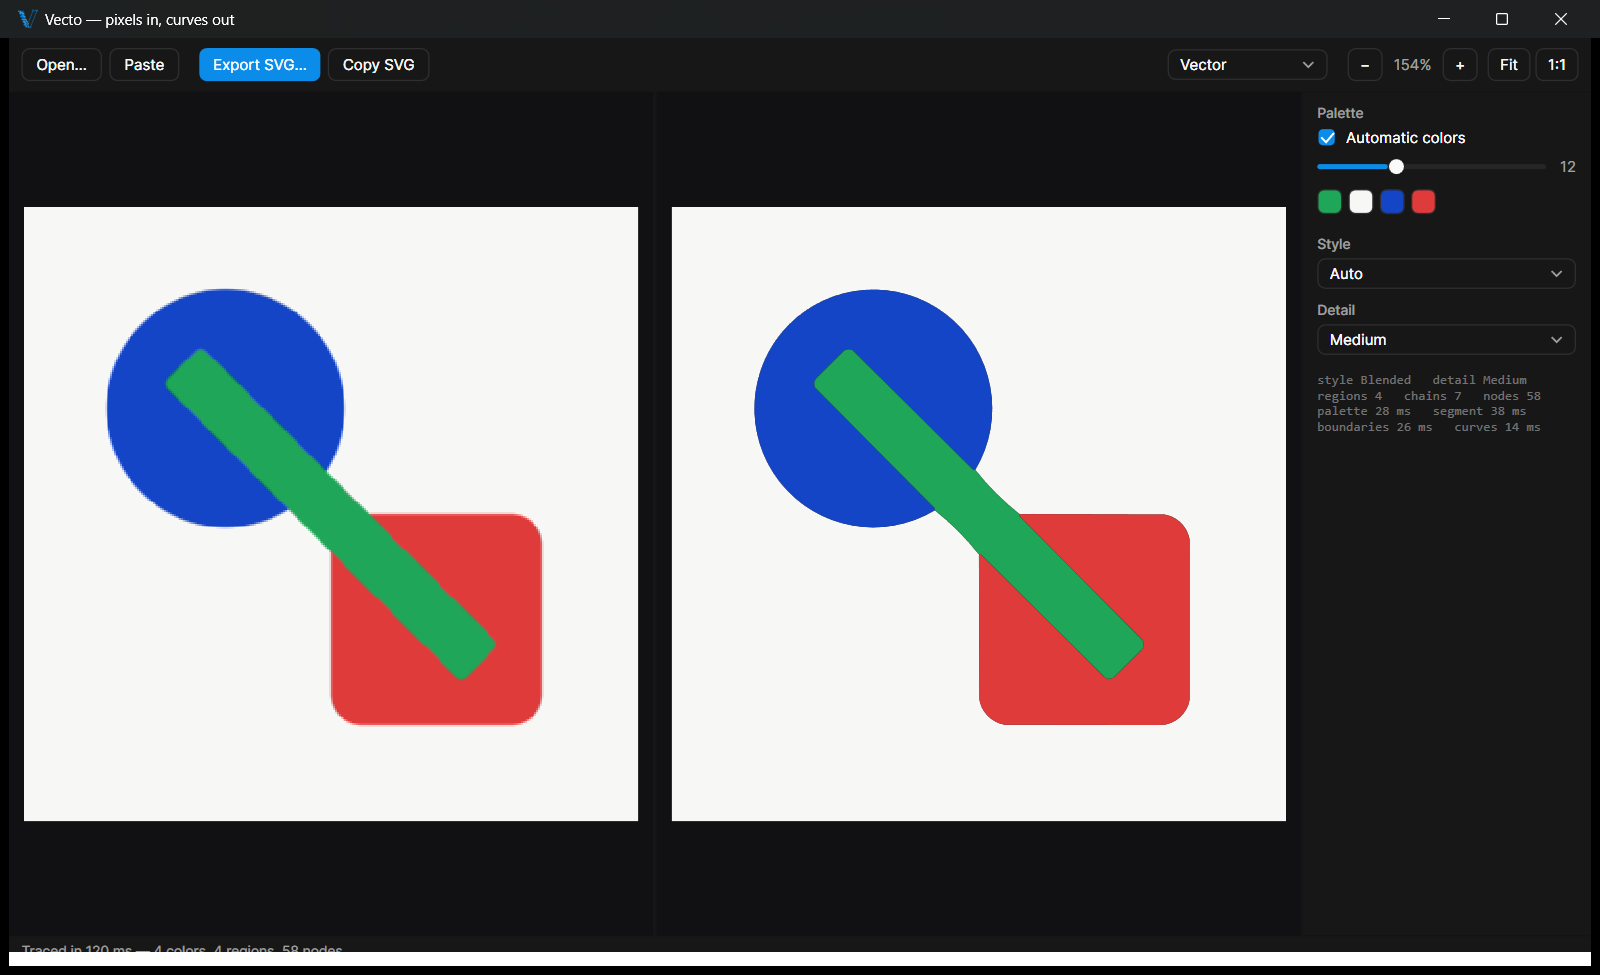
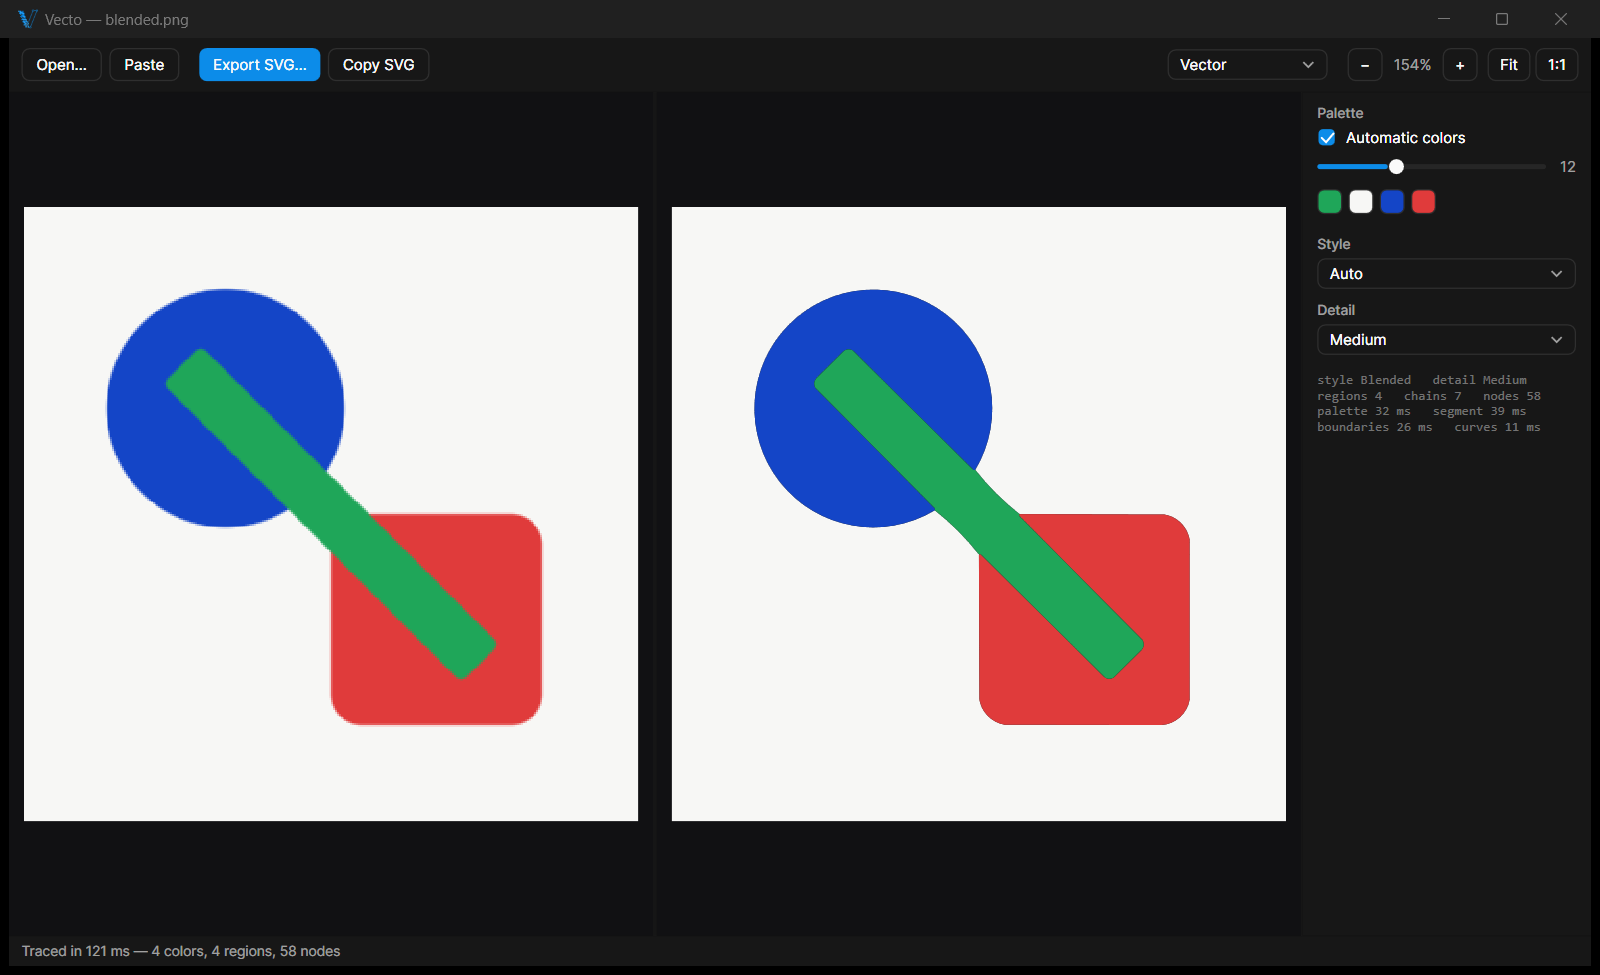
App: filename in window title, middle-click panning; fresh README screenshot; next steps in START_HERE

Changed region(s): [[0.0, 0.9538, 1.0, 1.0], [0.0312, 0.0, 0.125, 0.0308]]

diff --git a/Vecto.App/MainWindow.xaml b/Vecto.App/MainWindow.xaml
@@ -1,7 +1,7 @@
 <Window x:Class="Vecto.App.MainWindow"
         xmlns="http://schemas.microsoft.com/winfx/2006/xaml/presentation"
         xmlns:x="http://schemas.microsoft.com/winfx/2006/xaml"
-        Title="Vecto"
+        Title="{Binding WindowTitle}"
         Height="780" Width="1280"
         Background="{StaticResource VBg}"
         Foreground="{StaticResource VFg}"
@@ -46,7 +46,7 @@
             </Grid.ColumnDefinitions>
             <ScrollViewer x:Name="LeftScroll" Grid.Column="0" Background="{StaticResource VCanvas}"
                           HorizontalScrollBarVisibility="Auto" VerticalScrollBarVisibility="Auto"
-                          ScrollChanged="OnLeftScrollChanged" PreviewMouseWheel="OnPreviewWheel">
+                          ScrollChanged="OnLeftScrollChanged" PreviewMouseWheel="OnPreviewWheel" PreviewMouseDown="OnPanStart" PreviewMouseMove="OnPanMove" PreviewMouseUp="OnPanEnd">
                 <!-- explicit pixel size: PNG DPI metadata must not shrink the bitmap,
                      or the two panes fall out of scale -->
                 <Image Source="{Binding SourceBitmap}" Stretch="Fill"
@@ -61,7 +61,7 @@
             <GridSplitter Grid.Column="1" HorizontalAlignment="Stretch"/>
             <ScrollViewer x:Name="RightScroll" Grid.Column="2" Background="{StaticResource VCanvas}"
                           HorizontalScrollBarVisibility="Auto" VerticalScrollBarVisibility="Auto"
-                          ScrollChanged="OnRightScrollChanged" PreviewMouseWheel="OnPreviewWheel">
+                          ScrollChanged="OnRightScrollChanged" PreviewMouseWheel="OnPreviewWheel" PreviewMouseDown="OnPanStart" PreviewMouseMove="OnPanMove" PreviewMouseUp="OnPanEnd">
                 <Image Source="{Binding RightSource}" Stretch="None"
                        HorizontalAlignment="Center" VerticalAlignment="Center"
                        RenderOptions.BitmapScalingMode="NearestNeighbor">

diff --git a/Vecto.App/MainWindow.xaml.cs b/Vecto.App/MainWindow.xaml.cs
@@ -58,7 +58,37 @@ public partial class MainWindow : Window
             return;
         }
         var img = Clipboard.GetImage();
-        if (img != null) ViewModel.LoadBitmap(BitmapFrame.Create(img));
+        if (img != null) ViewModel.LoadPastedBitmap(BitmapFrame.Create(img));
+    }
+
+    System.Windows.Point _panStart;
+    double _panH, _panV;
+    ScrollViewer? _panning;
+
+    void OnPanStart(object sender, MouseButtonEventArgs e)
+    {
+        if (e.ChangedButton != MouseButton.Middle) return;
+        _panning = (ScrollViewer)sender;
+        _panStart = e.GetPosition(_panning);
+        _panH = _panning.HorizontalOffset;
+        _panV = _panning.VerticalOffset;
+        _panning.CaptureMouse();
+        e.Handled = true;
+    }
+
+    void OnPanMove(object sender, MouseEventArgs e)
+    {
+        if (_panning == null) return;
+        var p = e.GetPosition(_panning);
+        _panning.ScrollToHorizontalOffset(_panH - (p.X - _panStart.X));
+        _panning.ScrollToVerticalOffset(_panV - (p.Y - _panStart.Y));
+    }
+
+    void OnPanEnd(object sender, MouseButtonEventArgs e)
+    {
+        if (e.ChangedButton != MouseButton.Middle || _panning == null) return;
+        _panning.ReleaseMouseCapture();
+        _panning = null;
     }
 
     void OnExport(object sender, RoutedEventArgs e)

diff --git a/Vecto.App/MainViewModel.cs b/Vecto.App/MainViewModel.cs
@@ -140,6 +140,14 @@ public sealed class MainViewModel : INotifyPropertyChanged
 
     public string SuggestedName => Path.GetFileNameWithoutExtension(_sourcePath ?? "vecto") + ".svg";
 
+    public string WindowTitle => _sourcePath == null ? "Vecto" : $"Vecto — {Path.GetFileName(_sourcePath)}";
+
+    public void LoadPastedBitmap(BitmapSource bmp)
+    {
+        _sourcePath = null;
+        LoadBitmap(bmp);
+    }
+
     public void LoadFile(string path)
     {
         var bmp = new BitmapImage();
@@ -157,6 +165,7 @@ public sealed class MainViewModel : INotifyPropertyChanged
         if (bmp.CanFreeze) bmp.Freeze();
         SourceBitmap = bmp;
         _raster = ImageInterop.ToRaster(bmp);
+        Raise(nameof(WindowTitle));
         FitRequested?.Invoke();
         Retrace(immediate: true);
     }

diff --git a/docs/ai/START_HERE.md b/docs/ai/START_HERE.md
@@ -6,7 +6,7 @@ boundary is fitted once and shared by both adjacent regions, so the output has n
 no overlaps between shapes. C# / .NET 8 / WPF.
 
 **Current status:** v0.1.0 — Phases 0–3 done (engine + CLI + tests + WPF app MVP).
-**Current priority:** Phase 4 (see ROADMAP.md) — wizard flow, palette editor, background
+**Current priority:** (1) sub-pixel junction/corner relaxation — top engine-quality lever, see ROADMAP; (2) Phase 4 UX: palette editor + tracing wizard; (3) publish a binary GitHub Release + demo GIF for reach.
 removal; plus tuning-backlog items as they bite.
 
 ## Solution layout (structure beyond this → CodeGraph)
